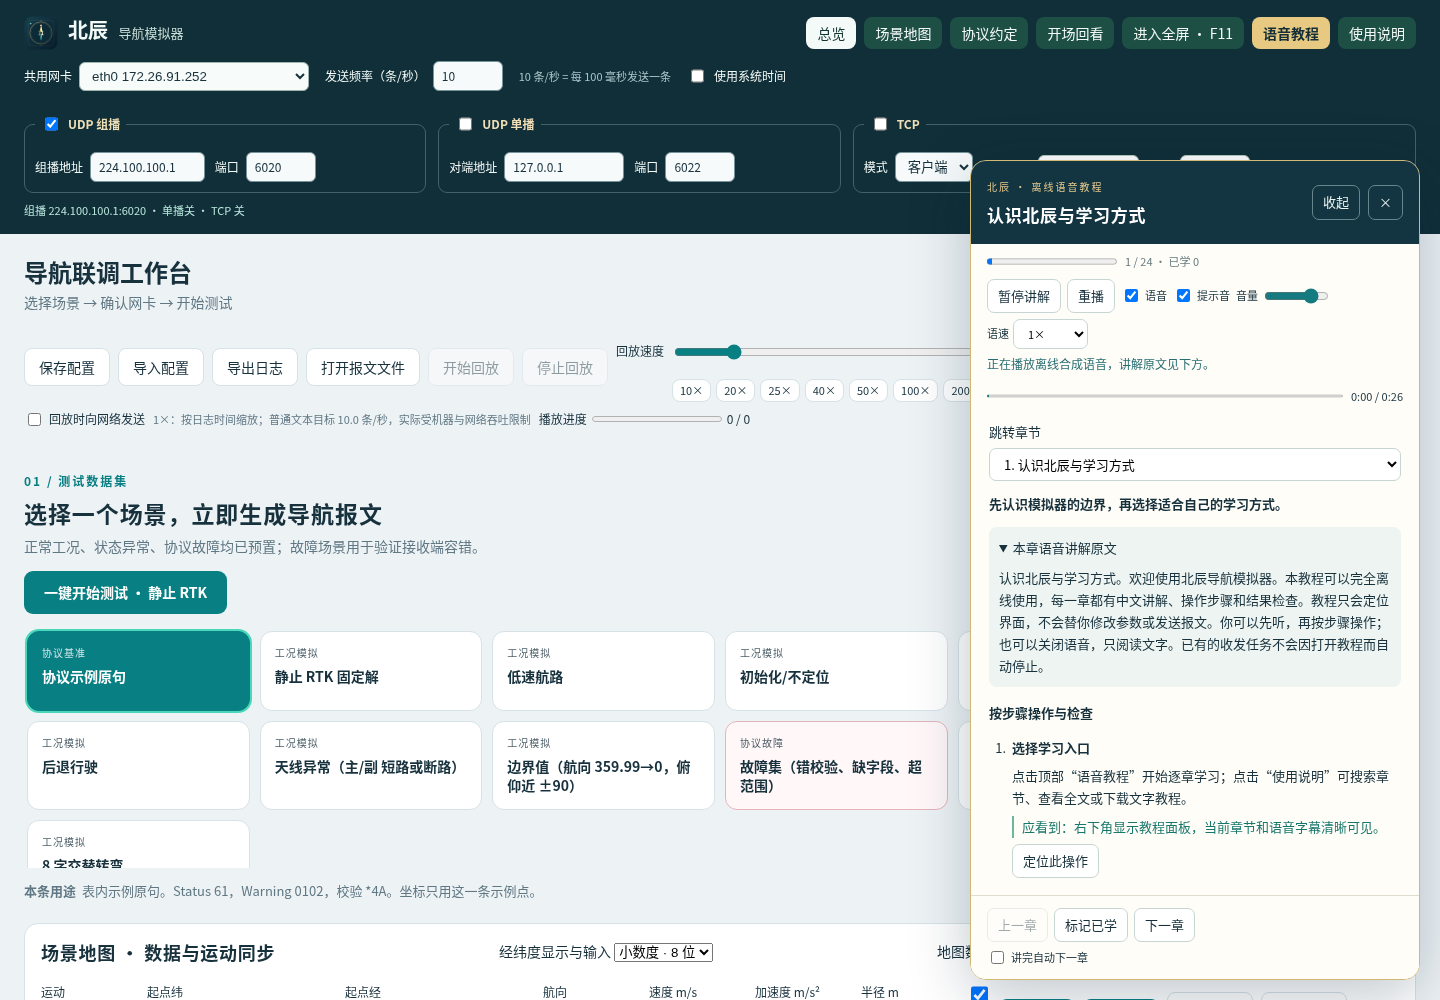
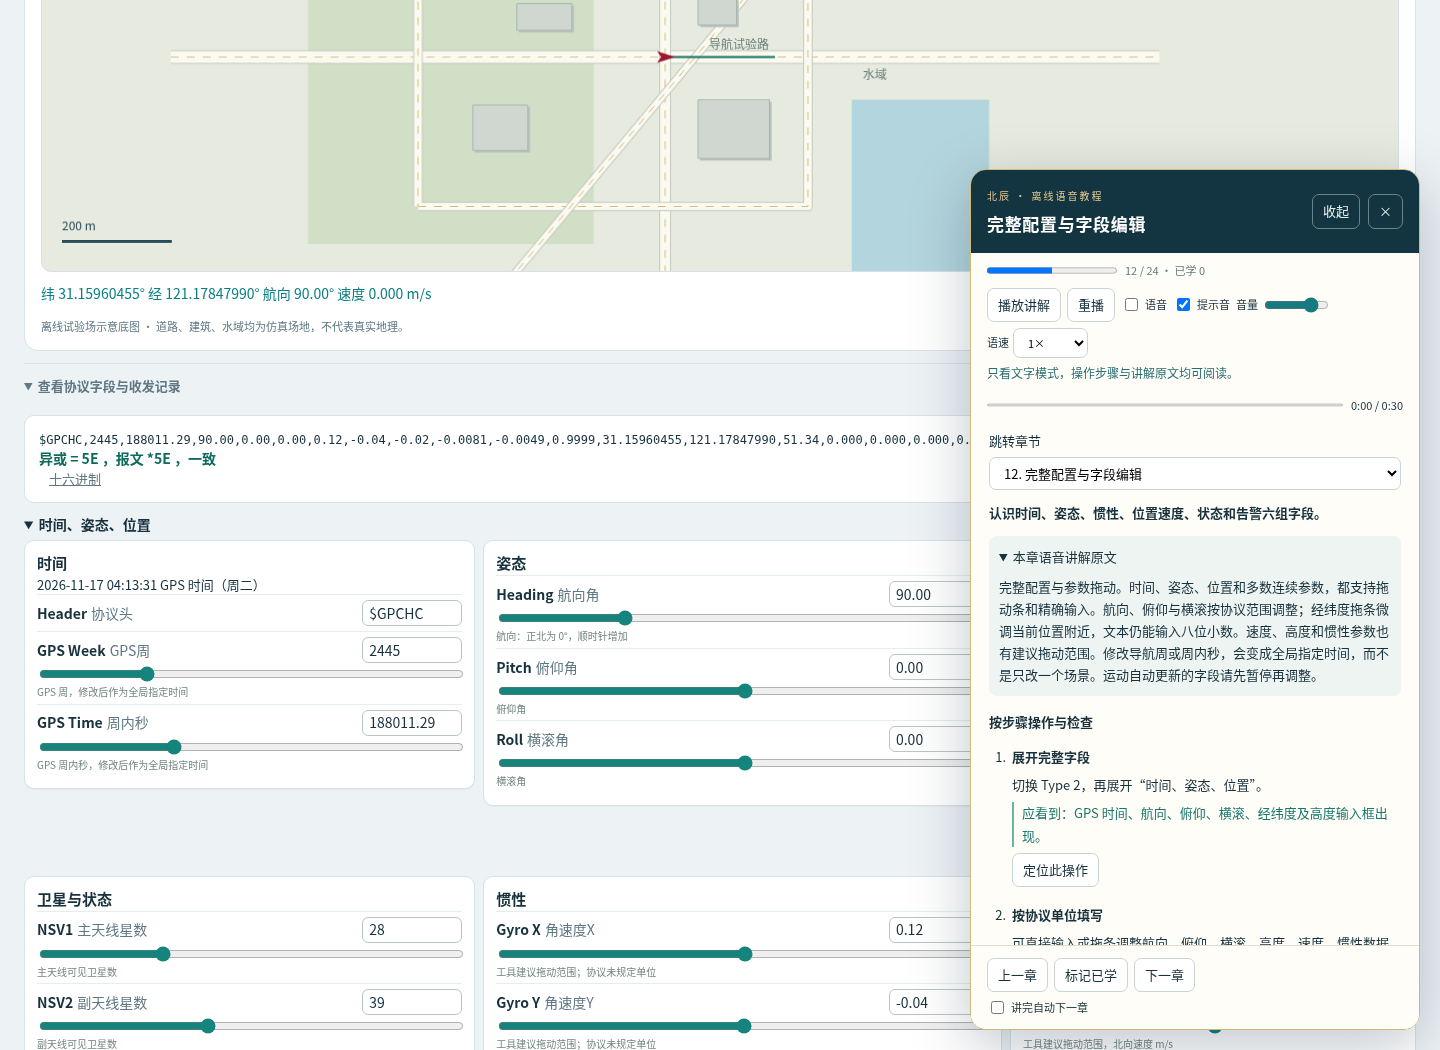
chore: prepare 0.7.0-test release and verify packaged global controls

diff --git a/README.md b/README.md
@@ -16,7 +16,7 @@ npm start
 
 `npm start` 同时提供页面和组播收发。桌面包装的是同一套页面，组播走 Electron 主进程，不经过这个 HTTP 接口。
 
-测试包版本是 `0.6.0-test`。银河麒麟 V10 x86_64 用 Electron 22（主程序最高依赖 GLIBC_2.17）。UDP 与 TCP 可同时打开。轨迹页是离线格网。
+测试包版本是 `0.7.0-test`。银河麒麟 V10 x86_64 用 Electron 22（主程序最高依赖 GLIBC_2.17）。UDP 与 TCP 可同时打开。地图使用离线仿真场地底图。
 
 ```bash
 npm run pack:linux
@@ -25,9 +25,9 @@ npm run pack:win
 
 新增快速测试／完整配置、启动动画、本机配置与路径存档、JSON 导入导出、JSONL 日志、报文文件回放及简化加速转弯模型。详细说明可在界面点击“使用说明”，或查看 `docs/guide.txt`。
 
-Windows 64 位测试包在 [v0.6.0-test Release](https://github.com/Yuqing-Maniac/beidou-simulator/releases/tag/v0.6.0-test) 下载：便携 EXE 双击运行，或将 ZIP 完整解压后运行其中的 `beidou-simulator.exe`。
+Windows 64 位测试包在 [v0.7.0-test Release](https://github.com/Yuqing-Maniac/beidou-simulator/releases/tag/v0.7.0-test) 下载：便携 EXE 双击运行，或将 ZIP 完整解压后运行其中的 `beidou-simulator.exe`。
 
-0.6.0-test：司南罗盘启动动画与启动音、场景／地图合并、离线仿真场地底图、同网卡组播和单播双发、固定高度报文流，以及三种经纬度显示格式。保留完整 Electron 运行时，优先保证兼容性。
+0.7.0-test：标准数据集与地图同步运动、六场景快速测试、全局调试时间、参数拖条与精确输入，并更新对应文字和离线语音教程。保留完整 Electron 运行时，优先保证兼容性。
 
 语音教程：顶部“语音教程”可打开 24 章离线中文讲解、逐步定位与结果检查。“使用说明”支持搜索章节和下载约 1.4 万字完整教程。全部音频随软件打包，不依赖系统中文语音包；教程不会自动改参数或发报。教程内容与维护流程见 `docs/tutorial.txt` 和 `docs/TUTORIAL_AUTHORING.txt`。
 
